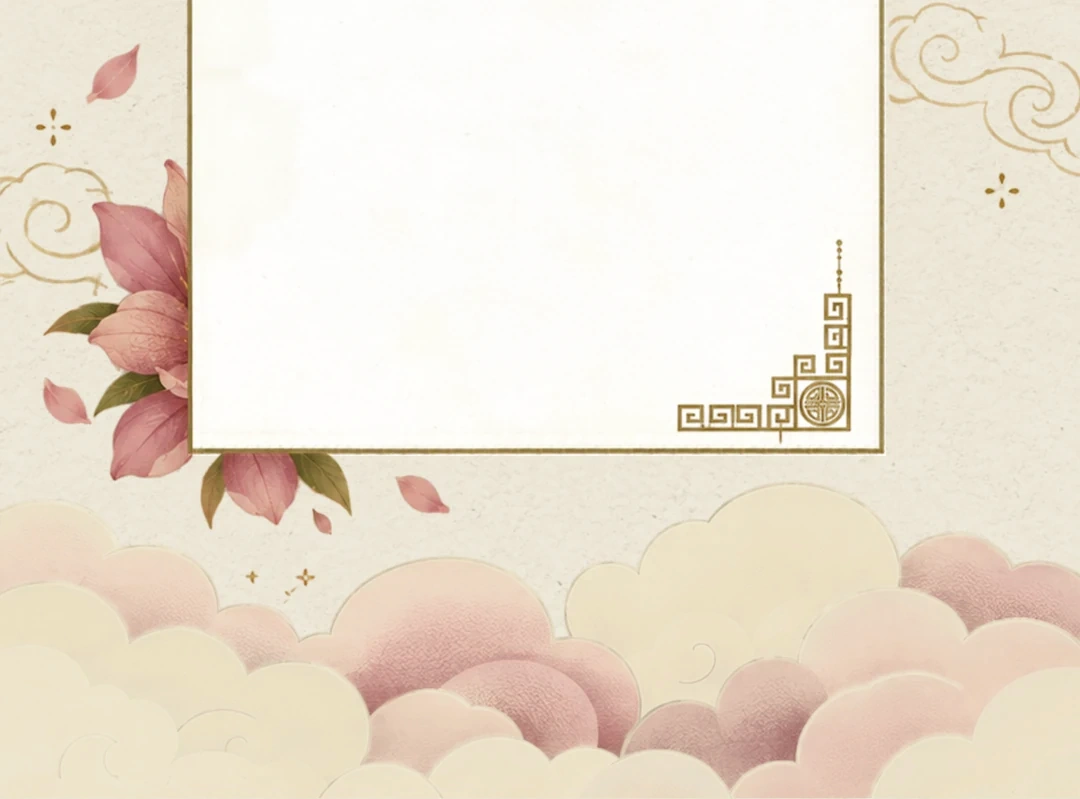
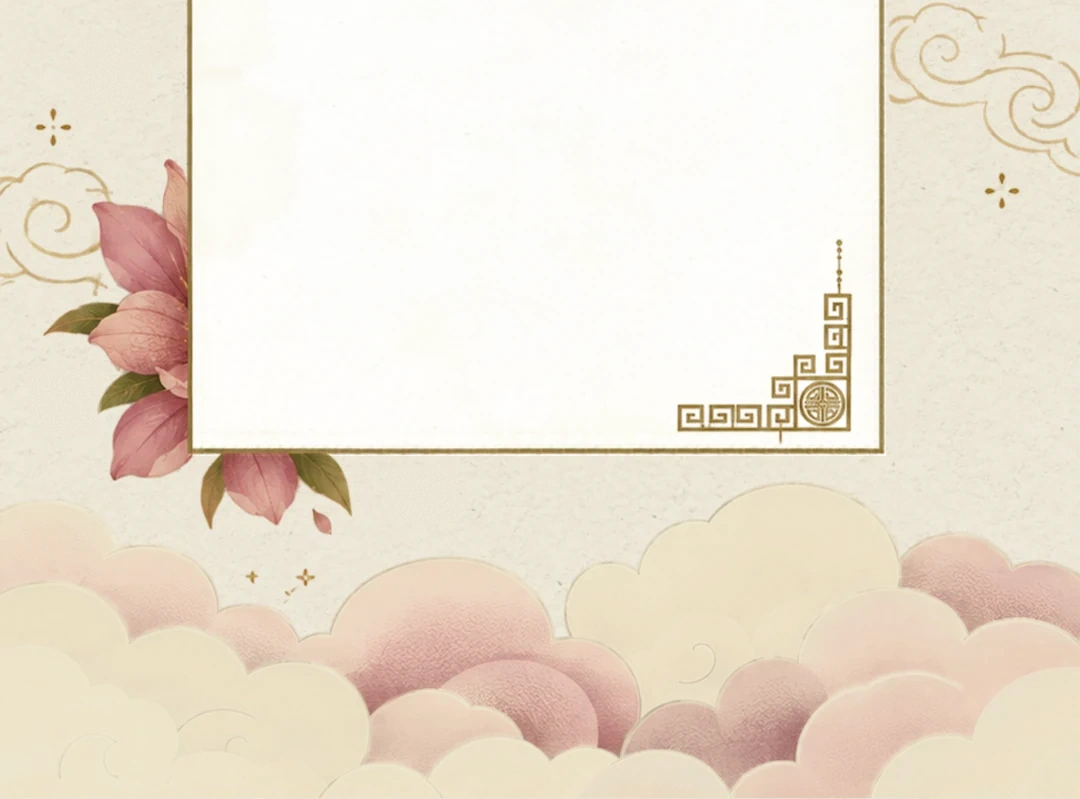
feat: falling petals from RSVP flower into Thank you, soft RSVP/Thank you seam

Changed region(s): [[0.3667, 0.5707, 0.4278, 0.6608], [0.0611, 0.0601, 0.1528, 0.1202], [0.0306, 0.4806, 0.0917, 0.5407]]

diff --git a/components/ui/FallingPetals.tsx b/components/ui/FallingPetals.tsx
@@ -1,0 +1,77 @@
+import Image from "next/image";
+
+import type { ElementName } from "@/content/assets";
+import { element } from "@/lib/assets";
+
+type Petal = {
+  name: ElementName;
+  /** Chỗ cánh hoa bắt đầu rơi, px trong tranh gốc 1080 × 799 của lát dưới thiệp. */
+  x: number;
+  y: number;
+  /** Bề ngang px trong tranh gốc. */
+  w: number;
+  flip?: boolean;
+  /** Giây. Trễ âm để lúc vào trang các cánh đã rơi lệch nhau. */
+  delay: number;
+  duration: number;
+  /** Trôi ngang (px) và xoay (độ) theo cả quãng rơi. */
+  drift: number;
+  spin: number;
+};
+
+/** Ba cánh đầu nằm đúng chỗ cũ trong tranh (scripts/recolor-paper.mjs đã gỡ chúng khỏi ảnh); bốn cánh sau tách ra từ chính bông hoa. */
+const PETALS: readonly Petal[] = [
+  { name: "petal-a", x: 80, y: 40, w: 66, delay: 0, duration: 15, drift: 90, spin: 240 },
+  { name: "petal-b", x: 36, y: 372, w: 60, delay: -4, duration: 12, drift: -50, spin: -200 },
+  { name: "petal-c", x: 390, y: 470, w: 66, delay: -7, duration: 13, drift: 110, spin: 180 },
+  { name: "petal-a", x: 150, y: 440, w: 52, flip: true, delay: -2, duration: 17, drift: -80, spin: -260 },
+  { name: "petal-b", x: 120, y: 300, w: 46, flip: true, delay: -9, duration: 14, drift: 70, spin: 220 },
+  { name: "petal-c", x: 240, y: 500, w: 48, delay: -5, duration: 16, drift: -100, spin: 160 },
+  { name: "petal-a", x: 300, y: 520, w: 44, delay: -11, duration: 13, drift: 60, spin: -180 },
+];
+
+/**
+ * Cánh hoa rơi từ bông hoa ở chân thiệp RSVP, trôi xuống tận section Thank you.
+ *
+ * Đặt nó trong khung có tỉ lệ đúng của lát dưới thiệp (`aspect-[1080/799]`, bám
+ * đáy) để toạ độ % khớp tranh. Khung KHÔNG cắt (`overflow` mặc định) nên cánh
+ * hoa rơi ra ngoài đáy section; section chứa nó phải có `z-10` thì mới nằm
+ * trên section kế tiếp. Chuyển động nằm ở `.petal-fall` trong globals.css; bật
+ * "Giảm chuyển động" thì cánh hoa đứng nguyên chỗ cũ trong tranh.
+ */
+export function FallingPetals() {
+  return (
+    <div aria-hidden className="pointer-events-none absolute inset-0 z-20">
+      {PETALS.map((p, i) => {
+        const art = element(p.name);
+        if (!art) return null;
+        return (
+          <span
+            key={i}
+            className="petal-fall absolute"
+            style={
+              {
+                left: `${(p.x / 1080) * 100}%`,
+                top: `${(p.y / 799) * 100}%`,
+                width: `${(p.w / 1080) * 100}%`,
+                "--petal-drift": `${p.drift}px`,
+                "--petal-spin": `${p.spin}deg`,
+                animationDelay: `${p.delay}s`,
+                animationDuration: `${p.duration}s`,
+              } as React.CSSProperties
+            }
+          >
+            <Image
+              src={art.src}
+              alt=""
+              width={art.width ?? 60}
+              height={art.height ?? 60}
+              unoptimized
+              className={`h-auto w-full select-none ${p.flip ? "-scale-x-100" : ""}`}
+            />
+          </span>
+        );
+      })}
+    </div>
+  );
+}

diff --git a/app/globals.css b/app/globals.css
@@ -431,6 +431,83 @@ h4 {
   }
 
   /*
+    Cánh hoa rơi (FallingPetals): trôi xuống `--petal-fall`, lắc ngang quanh
+    `--petal-drift`, xoay tới `--petal-spin`. Hiện ra nhanh ở chỗ bắt đầu,
+    chỉ tan đi ở chặng cuối quãng rơi — lúc đó nó đã nằm giữa ảnh cưới.
+  */
+  .petal-fall {
+    --petal-fall: 110svh;
+    animation: petal-fall 14s linear infinite;
+    will-change: transform, opacity;
+  }
+  @media (prefers-reduced-motion: reduce) {
+    .petal-fall {
+      animation: none;
+    }
+  }
+  @keyframes petal-fall {
+    0% {
+      opacity: 0;
+      transform: translate3d(0, 0, 0) rotate(0deg);
+    }
+    6% {
+      opacity: 1;
+    }
+    25% {
+      transform: translate3d(calc(var(--petal-drift) * -0.4), calc(var(--petal-fall) * 0.25), 0)
+        rotate(calc(var(--petal-spin) * 0.3));
+    }
+    50% {
+      transform: translate3d(calc(var(--petal-drift) * 0.6), calc(var(--petal-fall) * 0.5), 0)
+        rotate(calc(var(--petal-spin) * 0.6));
+    }
+    75% {
+      opacity: 1;
+      transform: translate3d(calc(var(--petal-drift) * 0.1), calc(var(--petal-fall) * 0.75), 0)
+        rotate(calc(var(--petal-spin) * 0.85));
+    }
+    100% {
+      opacity: 0;
+      transform: translate3d(var(--petal-drift), var(--petal-fall), 0) rotate(var(--petal-spin));
+    }
+  }
+
+  /*
+    Mép TRÊN của một lớp ảnh tan dần xuống từ trong suốt, cộng với
+    `.edge-feather` (giao hai mặt nạ). Dùng cho ảnh cưới ở Thank you: tấm ảnh
+    nhạt vào giấy chứ không bắt đầu bằng một đường cắt ngang.
+  */
+  .fade-top {
+    --fade-top-ramp: linear-gradient(
+      to bottom,
+      transparent 0,
+      rgb(0 0 0 / 0.08) 3%,
+      rgb(0 0 0 / 0.5) 9%,
+      rgb(0 0 0 / 0.92) 15%,
+      #000 20%
+    );
+    -webkit-mask-image: var(--fade-top-ramp), radial-gradient(ellipse 95% 90% at 50% 50%, #000 66%, transparent 100%);
+    mask-image: var(--fade-top-ramp), radial-gradient(ellipse 95% 90% at 50% 50%, #000 66%, transparent 100%);
+    -webkit-mask-composite: source-in;
+    mask-composite: intersect;
+  }
+
+  /* Mép DƯỚI tan dần về trong suốt — chân lớp mây của thiệp RSVP. */
+  .fade-bottom {
+    --fade-bottom-ramp: linear-gradient(
+      to bottom,
+      #000 0,
+      #000 82%,
+      rgb(0 0 0 / 0.92) 85%,
+      rgb(0 0 0 / 0.5) 91%,
+      rgb(0 0 0 / 0.08) 97%,
+      transparent 100%
+    );
+    -webkit-mask-image: var(--fade-bottom-ramp);
+    mask-image: var(--fade-bottom-ramp);
+  }
+
+  /*
     Lớp hiện dần TỪ TRÊN XUỐNG theo cú cuộn — dùng cho dải sen ở Agenda, để
     dòng sông chảy ra chứ không bật lên một lúc.
 

diff --git a/components/sections/Rsvp.tsx b/components/sections/Rsvp.tsx
@@ -8,6 +8,7 @@ import { useLocale } from "@/components/experience/LocaleProvider";
 import { Button } from "@/components/ui/Button";
 import { Heading, Script, SectionHead } from "@/components/ui/Heading";
 import { Choice, Field, FieldLabel, Stepper } from "@/components/ui/Field";
+import { FallingPetals } from "@/components/ui/FallingPetals";
 import { Ornaments, type OrnamentPlacement } from "@/components/ui/Ornaments";
 import { Reveal } from "@/components/ui/Reveal";
 import { SectionWrapper } from "@/components/ui/SectionWrapper";
@@ -155,7 +156,7 @@ export function Rsvp() {
   }
 
   return (
-    <SectionWrapper section="rsvp" flush width="bleed" labelledBy="rsvp-title">
+    <SectionWrapper section="rsvp" flush width="bleed" labelledBy="rsvp-title" className="z-10">
       {/*
         TẤM THIỆP CO GIÃN.
 
@@ -220,9 +221,14 @@ export function Rsvp() {
               height={cardBottom.height ?? 799}
               sizes={CARD_SIZES}
               quality={95}
-              className="w-full"
+              className="fade-bottom w-full"
             />
           ) : null}
+        </div>
+
+        {/* Cánh hoa rơi: khung có tỉ lệ đúng của lát dưới (1080 × 799), bám đáy. */}
+        <div aria-hidden className={`pointer-events-none absolute bottom-0 aspect-[1080/799] ${CARD_BLEED}`}>
+          <FallingPetals />
         </div>
 
         <div aria-hidden className={`pointer-events-none absolute inset-y-0 ${CARD_BLEED}`}>

diff --git a/content/assets.ts b/content/assets.ts
@@ -27,6 +27,9 @@ export const assets = {
     "lotus-left-stem": { src: "/brand/elements/lotus-left-stem.webp", width: 720, height: 286 },
     "lotus-left-top": { src: "/brand/elements/lotus-left-top.webp", width: 720, height: 2092 },
     "lotus-right": { src: "/brand/elements/lotus-right.webp", width: 720, height: 1651 },
+    "petal-a": { src: "/brand/elements/petal-a.webp", width: 66, height: 68 },
+    "petal-b": { src: "/brand/elements/petal-b.webp", width: 60, height: 58 },
+    "petal-c": { src: "/brand/elements/petal-c.webp", width: 66, height: 50 },
     "rsvp-bloom-left": { src: "/brand/elements/rsvp-bloom-left.webp", width: 520, height: 829 },
     "rsvp-bloom-right": { src: "/brand/elements/rsvp-bloom-right.webp", width: 520, height: 1128 },
     "rsvp-card-bottom": { src: "/brand/elements/rsvp-card-bottom.webp", width: 1080, height: 799 },

diff --git a/content/client.ts b/content/client.ts
@@ -174,12 +174,12 @@ export const design: Record<SectionId, SectionDesign> = {
      đổi giấy sang màu nền `garden` và hai đèn lồng đã thành trắng ngà
      (scripts/recolor-paper.mjs); ô giấy của thiệp giữ màu kem sáng. */
   rsvp: { anchor: "rsvp", tone: "garden" },
-  /* Ảnh cưới hoà vào giấy — xem components/sections/ThankYou.tsx. */
+  /* Ảnh cưới hoà vào giấy — xem components/sections/ThankYou.tsx. Cùng tông
+     `garden` và không có ảnh nền riêng như RSVP, để chân mây của thiệp tan vào
+     đúng màu giấy mà đỉnh ảnh cưới tan ra — hai bên đường nối cùng một màu. */
   thankYou: {
     anchor: "thank-you",
-    tone: "light",
-    background: "paper-cream",
-    overlay: 0,
+    tone: "garden",
   },
 };
 

diff --git a/components/sections/ThankYou.tsx b/components/sections/ThankYou.tsx
@@ -42,7 +42,7 @@ export function ThankYou() {
               alt={t(thankYou.imageAlt)}
               fill
               sizes="100vw"
-              className="edge-feather object-cover"
+              className="fade-top object-cover"
             />
           </div>
         ) : null}
